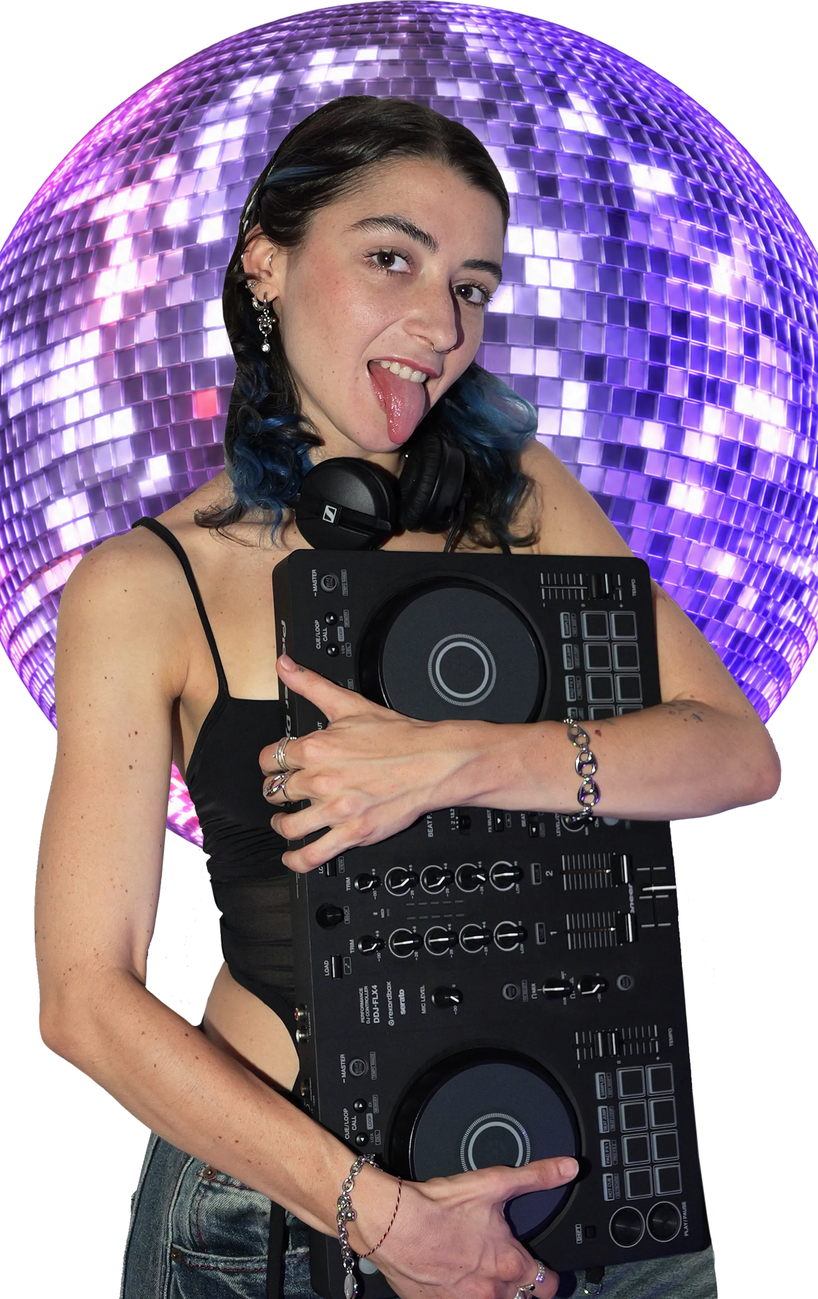
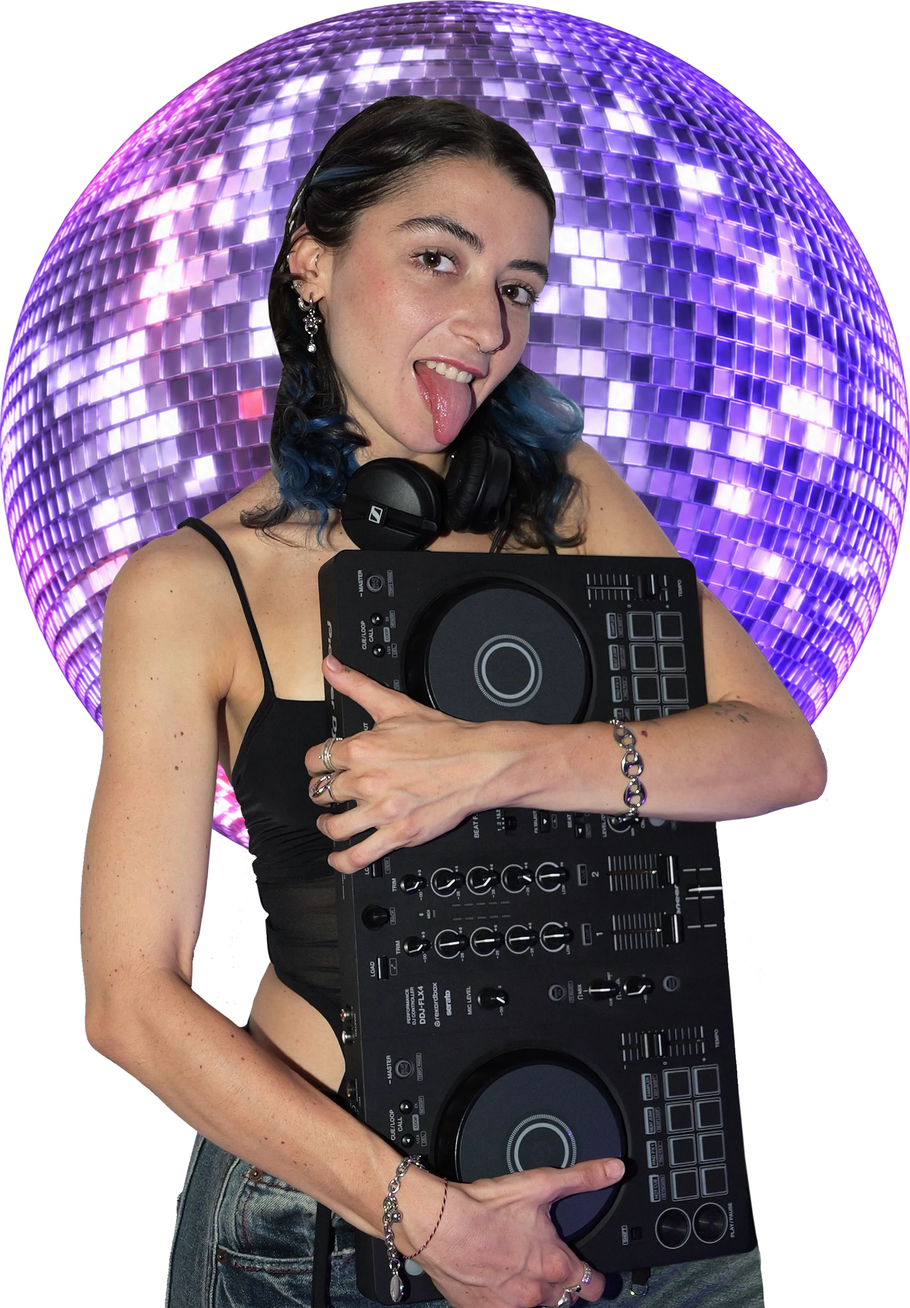
Use the uncropped outro photo so the disco ball stays round on wide screens
Claude-Session: https://claude.ai/code/session_01NRv9GMBYQrWf4dJ71RvGfF

diff --git a/css/mobile.css b/css/mobile.css
@@ -139,13 +139,15 @@ body.m-scroll::before {
 }
 
 /* OUTRO photo (disco ball + Lisa), always flush to the bottom */
+/* uncropped original: Lisa's crop is at (205, 5) in it, 3593.5 px wide ->
+   the whole ball spans canvas x -73.5 .. 1360.2, bottom 12.7 below canvas */
 .m-outro-photo {
   position: absolute;
   z-index: 1;
-  left: var(--mx);
-  bottom: 0;
-  width: calc(1288px * var(--ms));
-  height: calc(2045px * var(--ms));
+  left: calc(var(--mx) - 73.5px * var(--ms));
+  bottom: calc(-12.7px * var(--ms));
+  width: calc(1433.7px * var(--ms));
+  height: calc(2059.5px * var(--ms));
   pointer-events: none;
 }
 .m-outro-photo img { display: block; width: 100%; height: 100%; object-fit: contain; object-position: bottom center; }
